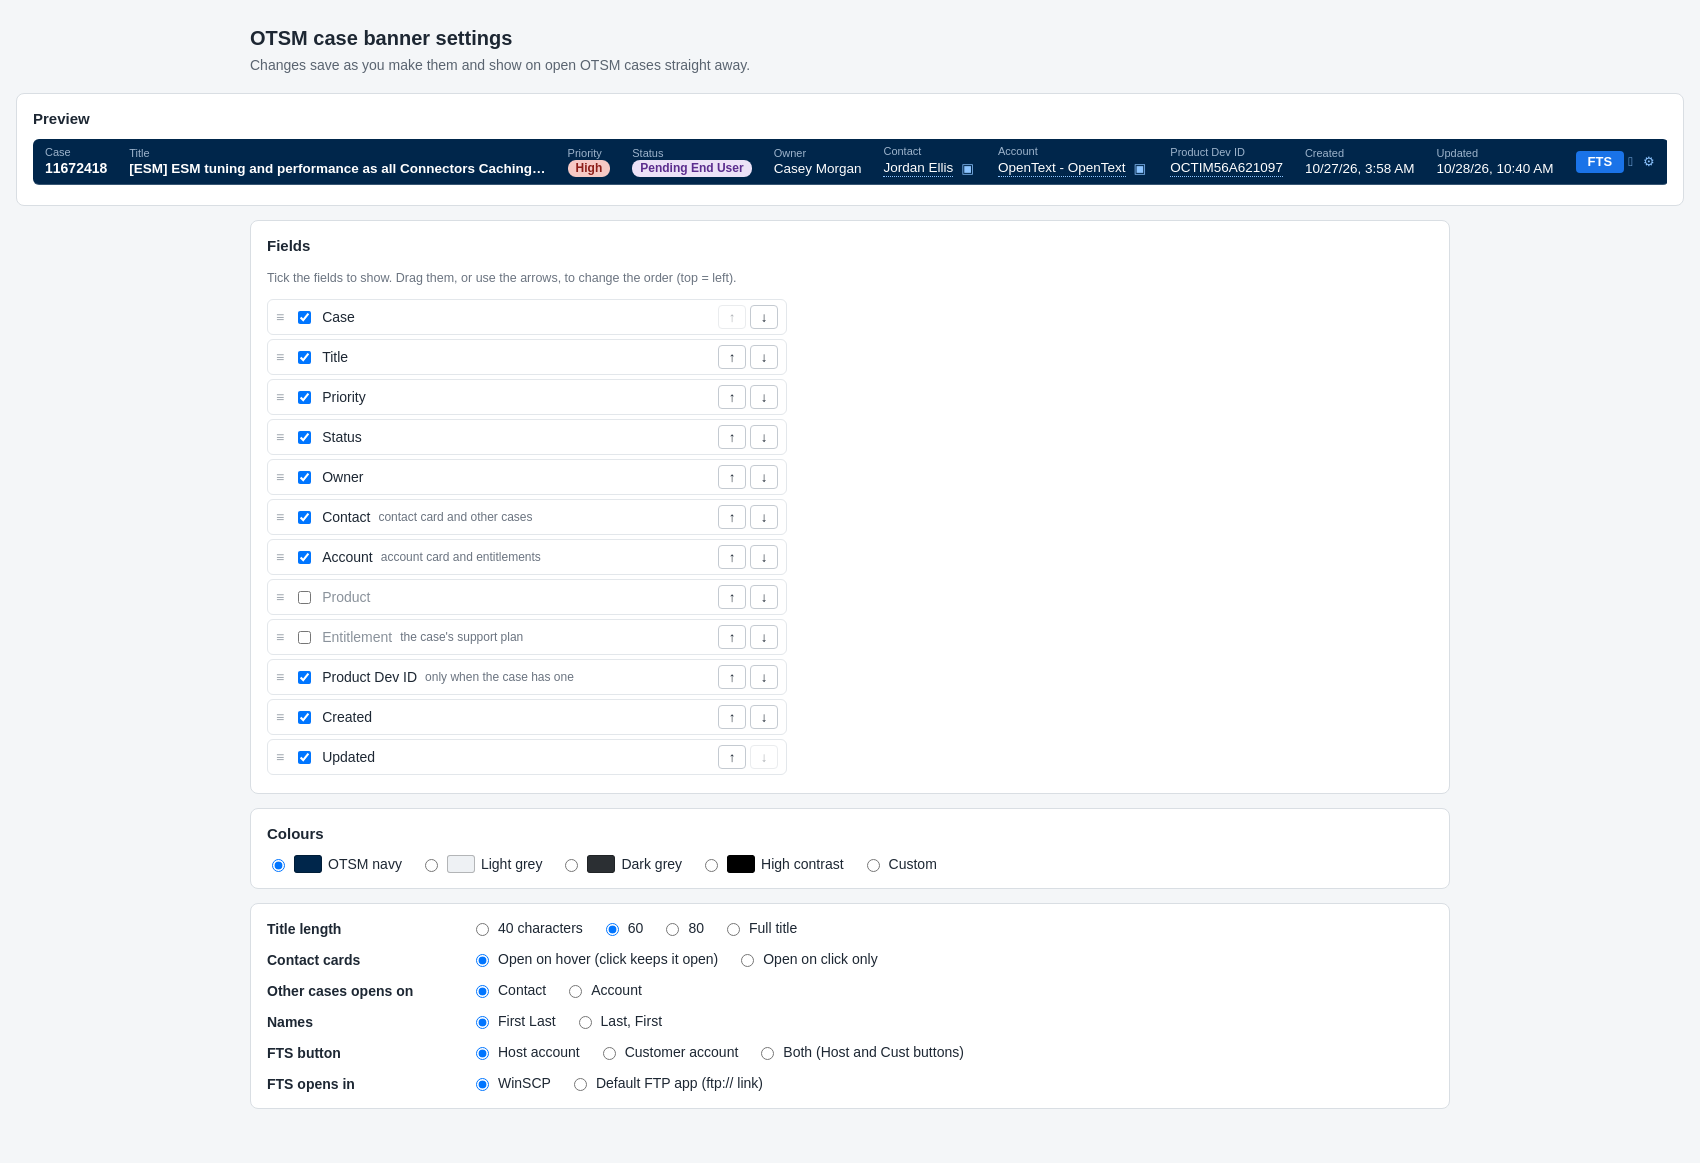
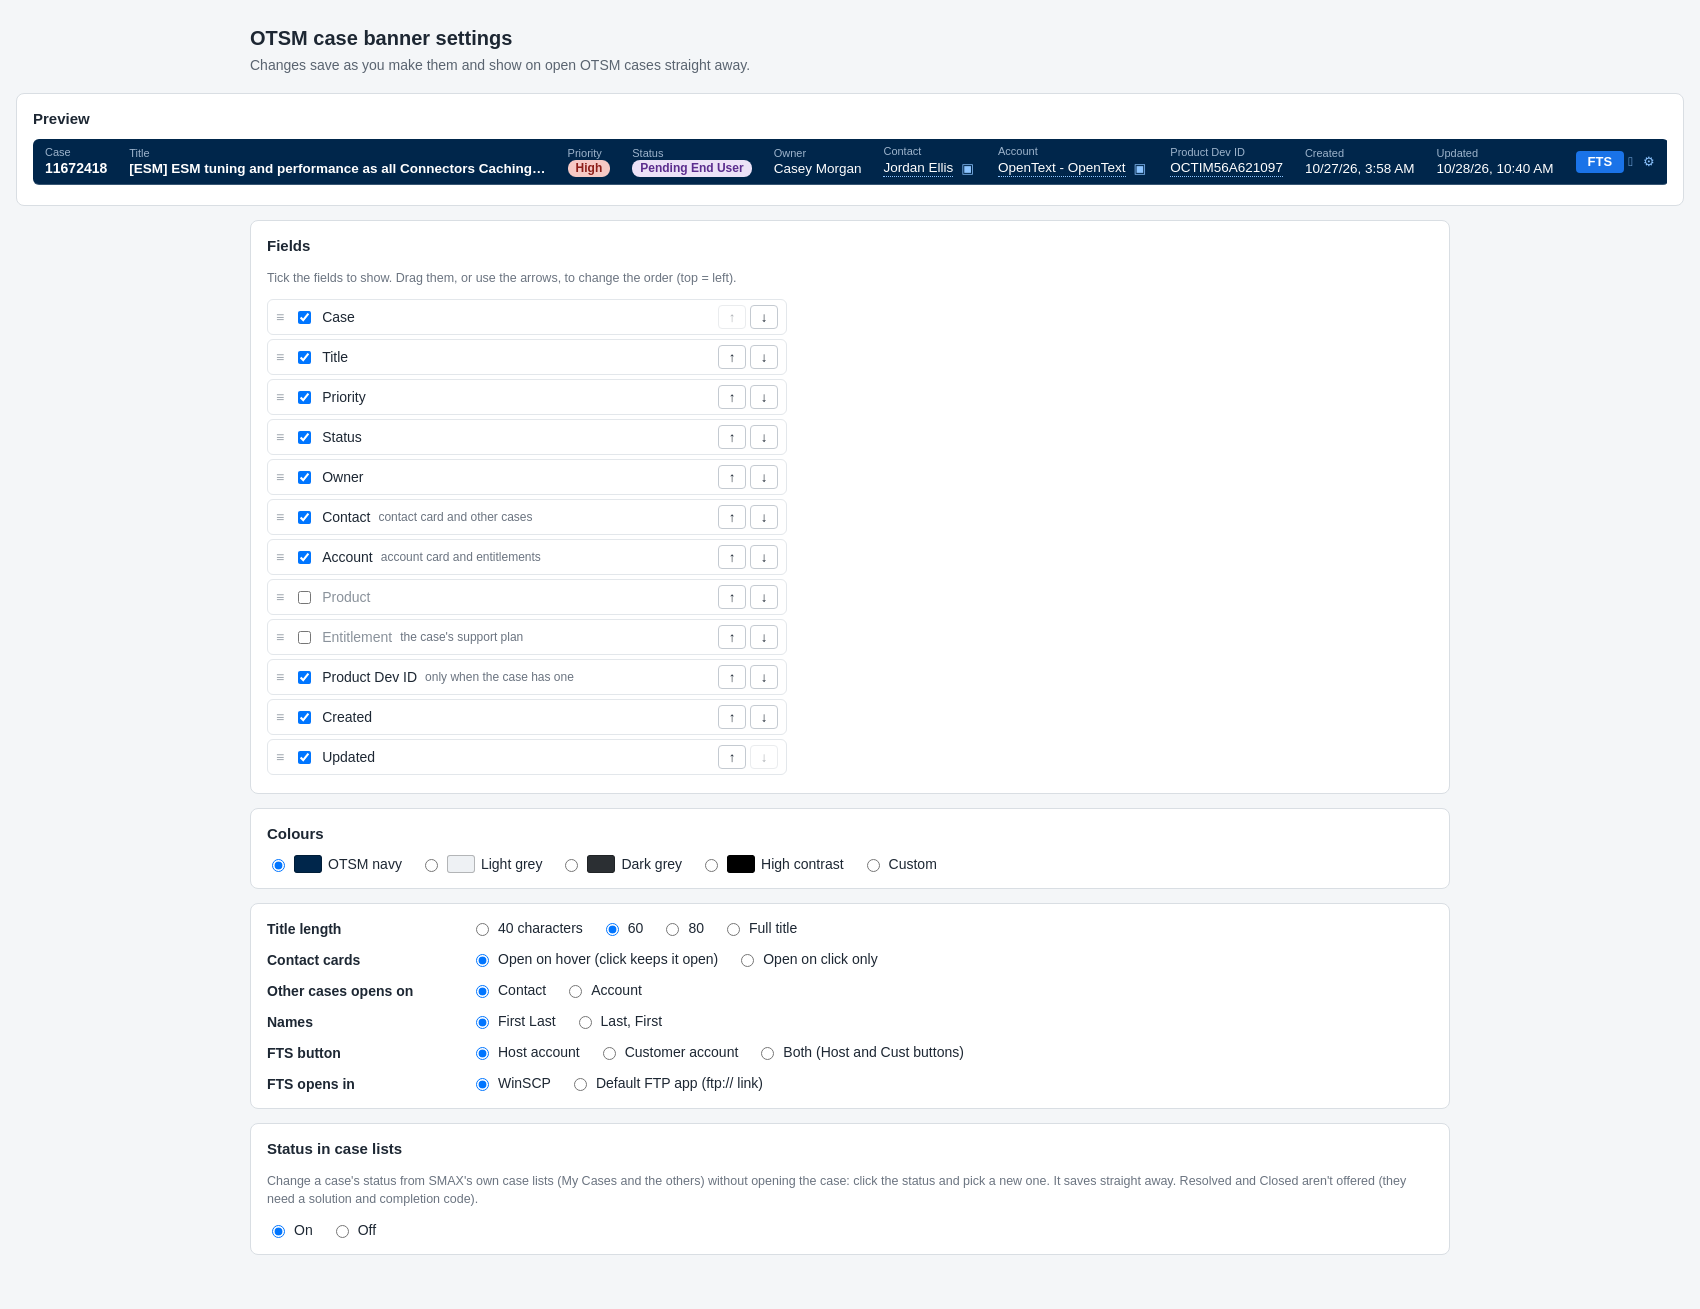
Release 1.7.1: status change from case lists, contact/title/account shrinking; web page updated
Claude-Session: https://claude.ai/code/session_01NkpnDbqKsuBq5PSnVFxaiM

diff --git a/site/index.html b/site/index.html
@@ -60,6 +60,7 @@
     <li><b>FTS</b> opens the case's FTS account in WinSCP (or your default FTP app), logged in with the case's credentials.
       The copy icon next to it copies the FTP address with the login, to paste into FileZilla or any other FTP program.</li>
     <li>Contact and account cards with phone numbers, the account's support team and special handling notes.</li>
+    <li>Change a case's status straight from your OTSM case lists.</li>
     <li>It stays on screen as you scroll, and reloads when you press OTSM's Refresh button on the case.</li>
   </ul>
 
@@ -82,6 +83,12 @@
   <p>The shield icon next to the account lists its entitlements: product, support plan, contract, dates and state, in-use ones first.
     A ✓ marks the ones the case's contact is an entitled user on, and the case's own entitlement is highlighted.</p>
   <figure><a href="img/entitlements.png"><img src="img/entitlements.png" alt="Popup listing entitlements with a contact check mark, entitlement number, product, support plan, contract, start, end and state"></a></figure>
+
+  <h3>Change a status from your case lists</h3>
+  <p>In OTSM's own case lists (My Cases and the others), click a case's status and pick a new one: Ready, In Progress,
+    Pending End User, Needs Attention, Pending Internal or Suspended. It saves straight away, the same way OTSM's Save does,
+    without opening the case. If the case was changed by someone else in the meantime, OTSM's message says so and nothing
+    is changed. Resolved and Closed aren't offered, because they need a solution and completion code. This can be turned off in the settings.</p>
 
   <h3>Settings</h3>
   <p>Click ⚙ on the banner (or right-click the extension's icon and choose Options) to pick which fields show and in what order,
